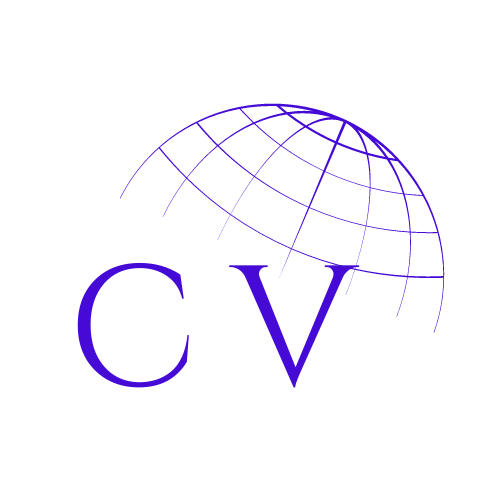
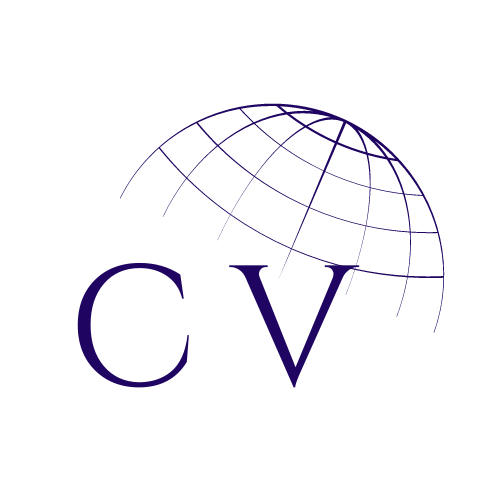
main section update

diff --git a/views/test2.html b/views/test2.html
@@ -11,7 +11,7 @@
         <!-- Inicio Header con navbar -->
         <header>
             
-                 <div class="container inside flex-row">
+                 <div class="container inside flex-row" id="projectHeader">
                      <div class="logo"> </div>
                      <div class="menu">
                          <ul class="navbar flex-row">
@@ -24,22 +24,50 @@
                 </div>   
                
         </header>
-        <section class="carousel-1">
+        <section class="carousel-1" id="carousel">
 
         </section>
         <main>
-            <div class="navbar-2 flex-row">
-
-                <nav class="container menu mainNav flex-row">
-                    <ul class="navbar flex-row">
-                        <li><a href="">EDUCACION</a></li>
-                        <li><a href="">EXPERIENCIA</a></li>
-                        <li><a href="">SOBRE MI</a></li>
-                        <li><a href="">REFERENCIAS</a></li>
-                        <li><a href="">MEDIA</a></li>
-                    </ul>
-                </nav>
+            <div class="navbar-2 flex-row mainDiv" id="mainHeader">
+                <div class="container navbar-2 flex-row">
+                    <div class="candidateName" id="candidate1">
+                        <h2>Isaias Benjamin Cuello</h2>
+                        <p>Web Developer</p>
+                    </div>
+                    <div class="candidatePhoto">
+                        
+                    </div>
+                    
+                    <nav class="menu mainNav flex-row" id="mainNavbar">
+                        <ul class="navbar flex-row">
+                            <li><a href="">EDUCACION</a></li>
+                            <li><a href="">EXPERIENCIA</a></li>
+                            <li><a href="">SOBRE MI</a></li>
+                            <li><a href="">REFERENCIAS</a></li>
+                            <li><a href="">MEDIA</a></li>
+                        </ul>
+                    </nav>                 
+                </div>
             </div>
+            <section class="firstSection" id="firstSection">
+                <div class="presentation container-2 flex-row" id="presentation1">
+                    <div class="imgPresent" id="imgPresent"></div>
+                    <div class="presDiv" id="presDiv1">
+                        <h2 class="title2" id="titlePres">Bienvenido!</h2>
+                        <p>Hola! Soy Isaías Benjamín Cuello. En esta web encontrará mi hoja de vida, de forma ordenada y amigable. Podrá conocer las características que a usted le interesen, laborales y personales, e incluso dejar un comentario o un feedback.
+                        Mi objetivo laboral en este momento es iniciar mi camino en la Tecnología de la Información. 
+                        <a href="" id="readMore">...[leer más]</a></p>
+                        <p id="plusText">Actualmente soy estudiante de la carrera Full Stack Developer en Coderhouse, habiendo ya completado Web Developing y próximo a completar Javascript. Para marzo 2022 habré completado ReactJS, y en agosto finalizaría BackEnd. Además, estoy realizando cursos complementarios de WordPress, PHP y SQL. En mediano plazo, mi objetivo es encarar la carrera Data Science.
+                            Soy una persona de metas y a lo largo de mi vida laboral me he caracterizado por una esencial orientación a resultados. Trabajo cada día para ser quien se recurre en busca de soluciones; accesible y comprometida. 
+                            Me gusta la transparencia como valor fundamental, el servicio y el ejemplo como formas de liderazgo, y la constante capacitación, adaptabilidad e intercambio de ideas para el crecimiento personal y profesional.
+                            Tengo fuertes vínculos con mis amigos y mi familia, me gusta compartir tiempo de calidad con ellos, y considero que gran parte de quien soy y quien trabajo por ser, es gracias a ellos.
+                            En los entornos laborales me gusta llevar a la práctica mis conocimientos, mejorar con la práctica, y aprender del conocimiento de otros. Me desempeño sin problemas en ámbitos de presión, y suelo trabajar con plazos y deadlines.
+                            Habiéndome presentado, le invito a conocer más sobre mi navegando esta web.
+                            Gracias! <a href="" id="readLess">...[leer menos]</a>
+                        </p>
+                    </div>
+                </div>
+            </section>
 
         </main>
         <footer>

diff --git a/css/index.css b/css/index.css
@@ -26,14 +26,19 @@ body {
   column-gap: 1rem; }
   .navbar li a {
     font-size: 1em;
-    color: white;
+    color: #ffffee;
     text-decoration: none;
     padding: 2rem; }
     .navbar li a:hover {
-      background-color: #7448e1; }
+      background-color: #4a27a1; }
 
 .container {
   max-width: 1400px;
+  width: 100%;
+  margin: auto; }
+
+.container-2 {
+  max-width: 1200px;
   width: 100%;
   margin: auto; }
 
@@ -52,6 +57,9 @@ body {
   background-repeat: no-repeat;
   background-size: cover;
   background-position-y: center; }
+
+p {
+  text-align: justify; }
 
 /*  
     & .maincontainer {
@@ -93,8 +101,8 @@ header {
   grid-area: header;
   display: flex;
   justify-content: center;
-  background-color: #450ad6;
-  color: white;
+  background-color: #1f0561;
+  color: #ffffee;
   height: 5vh;
   min-height: 2rem; }
   header .inside {
@@ -109,16 +117,49 @@ header {
         display: block;
         width: 5vh;
         height: 5vh; }
-    header .inside .menu {
-      display: flex;
-      margin-right: 2rem;
-      align-items: center; }
+
+.menu {
+  display: flex;
+  margin-right: 2rem;
+  align-items: center; }
+
+main div .candidateName {
+  color: #ffffee;
+  margin-left: 2rem;
+  letter-spacing: 0.3em; }
+
+main div .candidatePhoto {
+  position: relative;
+  top: -90%;
+  left: 11%;
+  background-image: url(../public/IMG_20181029_0829291092.jpg);
+  height: 20vh;
+  width: 20vh;
+  background-repeat: no-repeat;
+  background-size: cover;
+  border-radius: 50%;
+  background-position: center; }
 
 main {
   grid-area: main; }
+  main section {
+    font-size: 1.6em; }
+    main section .imgPresent {
+      background-image: url(../public/IMG_20180208_124604341.jpg);
+      height: 100%;
+      width: 100%;
+      background-size: cover; }
+  main .mainDiv {
+    position: sticky;
+    top: 16vh; }
   main .navbar-2 {
-    background-color: #450ad6;
+    background-color: #1f0561;
     height: 5vh;
-    min-height: 40px; }
+    min-height: 40px;
+    align-items: center;
+    justify-content: space-between; }
     main .navbar-2 .mainNav {
       justify-content: right; }
+  main .firstSection {
+    padding-top: 4vh;
+    background-color: #ffffee; }

diff --git a/scss/views/test2.scss b/scss/views/test2.scss
@@ -25,23 +25,66 @@ header {
             height: 5vh;
         }
     }
-    & .menu{
-        display: flex;
-        margin-right: 2rem;
-        align-items: center;
-    }
+    
 
 }
+}
+.menu{
+    display: flex;
+    margin-right: 2rem;
+    align-items: center;
+}
+
+main div{
+    
+    & .candidateName{
+        color: $back-letter;
+        margin-left: 2rem;
+        letter-spacing: 0.3em;
+    }
+    
+    & .candidatePhoto {
+        position: relative;
+        top: -90%;
+        left: 11%;
+        background-image: url(../public/IMG_20181029_0829291092.jpg);
+        height: 20vh;
+        width: 20vh;
+        background-repeat: no-repeat;
+        background-size: cover;
+        border-radius: 50%;
+        background-position: center;
+    }
 }
 
 main{
     grid-area: main;
+    & section{
+        font-size: 1.6em;
+        & .imgPresent{
+            background-image: url(../public/IMG_20180208_124604341.jpg);
+            height: 100%;
+            width: 100%;
+            background-size: cover;
+        }
+    }
+    & .mainDiv {
+        position: sticky;
+        top: 16vh;
+    }
     & .navbar-2{
         background-color: $primary;
         height: 5vh;
         min-height: 40px;
+        align-items: center;
+        justify-content: space-between;
         & .mainNav {
             justify-content: right;
         }
+    }
+    & .firstSection {
+        padding-top: 4vh;
+        background-color: $back-letter;
+        
     }
 }

diff --git a/scss/utils/variables.scss b/scss/utils/variables.scss
@@ -1,12 +1,12 @@
 //VARIABLES
 @import url('https://fonts.googleapis.com/css2?family=Raleway:ital,wght@0,100;0,300;0,400;0,700;1,100;1,400;1,700&display=swap');
 
-$primary: rgb(69, 10, 214);
-$secondary: rgb(116, 72, 225);
-$third: rgb(162, 133, 235);
-$fourth: rgb(255, 255, 238);
-$back-letter: rgb(255, 255, 255);
+$primary: rgb(31, 5, 97);
+$secondary: rgb(74, 39, 161);
+$third: rgb(116, 72, 225);
+$fourth: rgb(162, 133, 235);
+$back-letter: rgb(255, 255, 238);
 $fontFamily: 'Raleway', sans-serif;
-$genWidth: 1200px;
+$genWidth: 1400px;
 $genHeight: 1200px;
 $borderRadius: 10px;

diff --git a/scss/utils/globals.scss b/scss/utils/globals.scss
@@ -35,7 +35,13 @@ body{
     } 
 }
 .container{
-    max-width: 1400px;
+    max-width: $genWidth;
+    width: 100%;
+    margin: auto;
+}
+
+.container-2{
+    max-width: 1200px;
     width: 100%;
     margin: auto;
 }
@@ -60,6 +66,9 @@ body{
     background-position-y: center;
 }
 
+p{
+    text-align: justify;
+}
 
 
 
